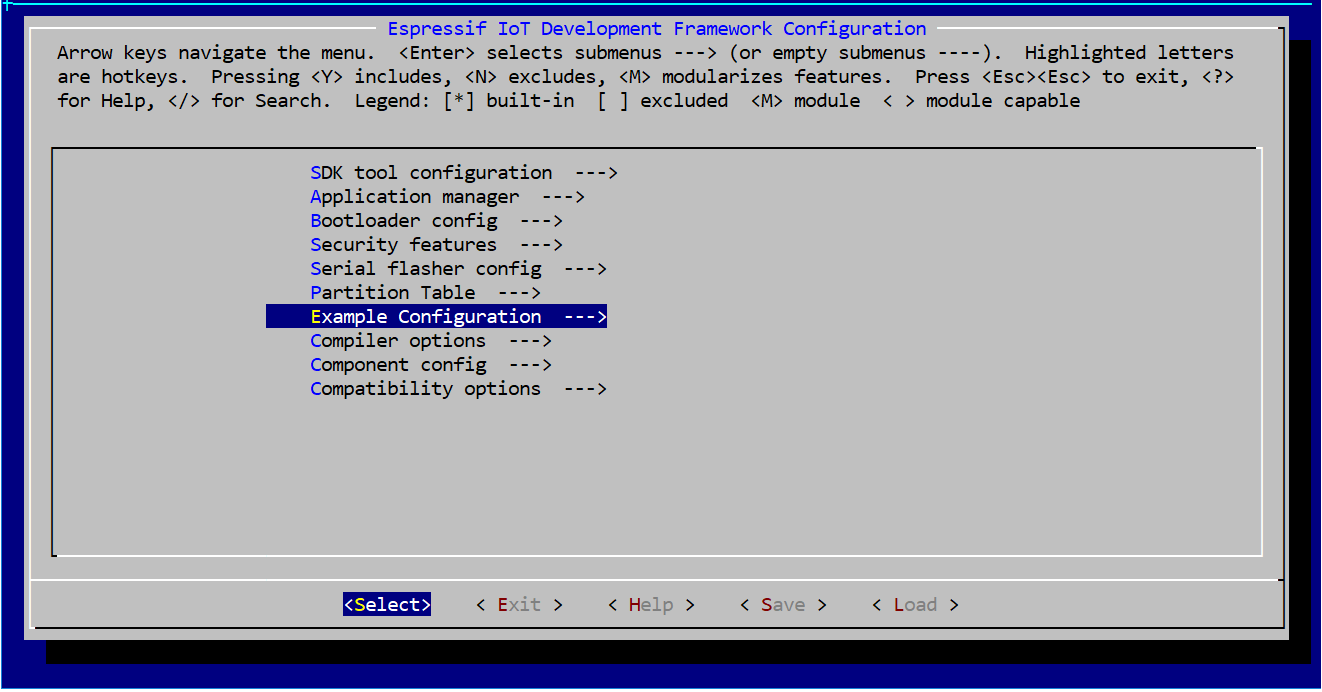
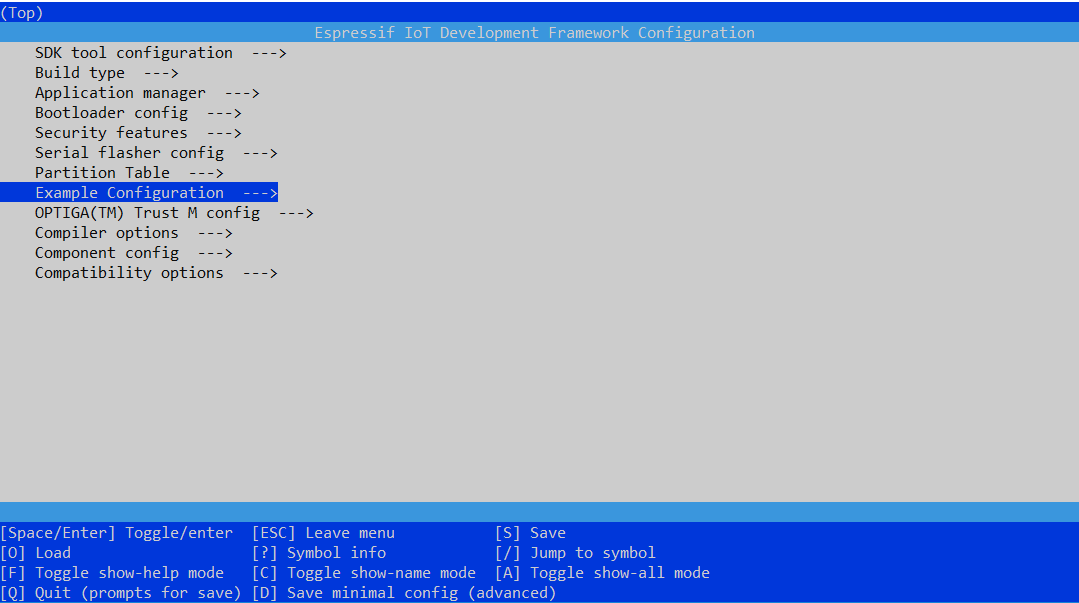
Updated the Cmakeflie for folder structrue changes in optiga trust m package an d pull in the latest update for Trust M

diff --git a/README.md b/README.md
@@ -9,7 +9,7 @@ This repository contains one of Application Notes for OPTIGA™ Trust M security
 - [Prerequisites](#prerequisites)
 - [Getting Started](#getting-started)
 - [Setting up Azure IoT Hub](#setting-up-azure-iot-hub)
-- [Porting guide to enable OPTIGA™ Trust M on your MbedTLS package](#porting-guide-to-enable-optiga-trust-m-on-your-mbedtls-package)
+- [Porting guide to enable OPTIGA™ Trust M on your mbedTLS package](#porting-guide-to-enable-optiga™-trust-m-on-your-mbedtls-package)
 - [Personalize OPTIGA™ Trust M Shield2Go](#personalize-optiga-trust-m-shield2go)
 - [Configuring and Building Sample](#configuring-and-building-sample) 
 - [Troubleshooting](#troubleshooting) 
@@ -18,7 +18,7 @@ This repository contains one of Application Notes for OPTIGA™ Trust M security
 
 <a name="introduction"></a>
 
-The ESP OPTIGA Trust M package is based on Azure IoT C SDK and enable users to connect their ESP32 based devices to the Azure IoT hub using OPTIGA™ Trust M security chip for X.509 based security in Azure IoT hub. It provides some examples which can help to understand most common use cases.
+The ESP Azure OPTIGA™ Trust M package is based on Azure IoT C SDK and enable users to connect their ESP32 based devices to the Azure IoT hub using OPTIGA™ Trust M security chip for X.509 based security in Azure IoT hub. It provides some examples which can help to understand most common use cases.
 
 ## Prerequisites
 
@@ -43,7 +43,6 @@ The ESP OPTIGA Trust M package is based on Azure IoT C SDK and enable users to c
 
 This project is to be used with Espressif's IoT Development Framework, [ESP IDF](https://github.com/espressif/esp-idf). Follow these steps to get started:
 
-- Setup ESP IDF development environment by following the steps [here](https://docs.espressif.com/projects/esp-idf/en/latest/get-started/index.html).
 - Clone the ESP IDF development framework as follows 
 
 Open the Command Prompt, and run the following commands:
@@ -51,15 +50,15 @@ Open the Command Prompt, and run the following commands:
 ``` bash
 git clone -b v4.0 --recursive https://github.com/espressif/esp-idf.git
 ```
-- In addition to Cloning the ESP IDF github, Download and install the ESP-IDF Tools Installer for Windows from below link
+- In addition to cloning the ESP IDF github, Download and install the ESP-IDF Tools Installer for Windows from below link
     
     [ESP-IDF Tools Installer](https://dl.espressif.com/dl/esp-idf-tools-setup-2.3.exe)
 
-- Note : Select ESP-IDF directory extracted in previous step while installing ESP-IDF Tools
+> Note: Select ESP-IDF directory extracted in previous step while installing ESP-IDF Tools
      
-    ![](docs/images/EspInstallation.png)
+![](docs/images/EspInstallation.png)
      
-- After succesful installation of ESP-IDF Tool, ESP-IDF command prompt will be available in the windows start
+- After successful installation of ESP-IDF Tool, the installer creates an “ESP-IDF Command Prompt” shortcut in the Start Menu. This shortcut opens the Command Prompt and sets up all the required environment variables
 
 - In a separate folder, clone the Azure OPTIGA&trade; Trust M project as follows (please note the --recursive option, which is required to clone the various git submodules required by Azure OPTIGA&trade; Trust M)
 
@@ -72,12 +71,12 @@ git clone --recursive Need to be updated
 - Clone the personalize-optiga-trust package as follows
 
 ``` bash
-git clone --recursive https://github.com/Infineon/personalize-optiga-trust
+git clone --recursive https://github.com/Infineon/personalize-optiga-trust.git
 ```
 - Install OpenSSL which is used as an example to generate certificate in this document. OpenSSL can be downloaded from below link
 
     [Openssl EXE](https://slproweb.com/products/Win32OpenSSL.html)
-##
+
 ## Setting up Azure IoT Hub
 
 <a name="setting-up-azure-iot-hub"></a>
@@ -85,16 +84,26 @@ git clone --recursive https://github.com/Infineon/personalize-optiga-trust
 ### Create an IoT Hub using the Azure portal
 
 - Create an account and get an [Azure subscription](https://azure.microsoft.com/en-in/free/?WT.mc_id=A261C142F) if you do not have an Azure subscription already.
-- Create an Azure IoT Hub by following the documentation [here](https://docs.microsoft.com/en-us/azure/iot-hub/iot-hub-create-through-portal).
+- Create an Azure IoT Hub by following the documentation [here](https://docs.microsoft.com/en-us/azure/iot-hub/iot-hub-create-through-portal#create-an-iot-hub).
 
 > **Note: When selecting the "Pricing and scale tier", there is also an option to select , F1: Free tier, which should be sufficient for basic evaluation.**
 
 ### Register and Authenticate X.509 CA certificate to IoT Hub
 
 - Generate X.509 CA certificate using tools such as OpenSSL. To generate CA certificate using OpenSSL, execute the below commands
+    - Generate CA private key
+
     ``` bash
     openssl ecparam -name prime256v1 -genkey -noout –out ca_key_pair.pem
+    ```
+    - Generate Certificate Signing Request
+
+    ``` bash
     openssl req -new -key ca_key_pair.pem -out csr_ca.csr
+    ```
+    - Generate self-signed CA Certificate
+
+    ``` bash
     openssl req -x509 -sha256 -days 365 -key ca_key_pair.pem -in csr_ca.csr -out ca_cert.cer
     ```
     - During execution of second command, You will be prompted to give Distinguished Names(DN). Common Name (CN) is mandatory field in DN details. Give any user-friendly common name for csr generation, other fields can be skipped
@@ -103,12 +112,12 @@ git clone --recursive https://github.com/Infineon/personalize-optiga-trust
 
 ### Register X.509 CA certificate to your IoT Hub through azure portal
 
-- Register a CA certficcate to the IoT Hub created in the above step by following steps 1 to 6 under section **Register X.509 CA certificates to your IoT hub** from the documentation [here](https://docs.microsoft.com/en-us/azure/iot-hub/iot-hub-security-x509-get-started#register-x509-ca-certificates-to-your-iot-hub) and copy the generated  **Verification Code**
+- Register a CA certificate to the IoT Hub created in the above step by following steps 1 to 6 under section **Register X.509 CA certificates to your IoT hub** from the documentation [here](https://docs.microsoft.com/en-us/azure/iot-hub/iot-hub-security-x509-get-started#register-x509-ca-certificates-to-your-iot-hub) and copy the generated  **Verification Code**
     - Using the Verification code from the above step, Create .csr(csr_verification.csr) file to generate verification certificate which is required to verify X.509 CA certificate.
         ```sh
          openssl req -new -key ca_key_pair.pem -out csr_verification.csr
         ```
-        - Note: User can generate new keys or can use same CA keys generated in previous section to generate verification csr file.
+        > Note: User can generate new keys or can use same CA keys generated in previous section to generate verification csr file.
         - when prompted for distinguished names, common name must be provided as **Verification Code** , other fields can be skipped
     - Generate Verification certificate and sign it using X.509 CA certificate  
         ```sh
@@ -119,14 +128,14 @@ git clone --recursive https://github.com/Infineon/personalize-optiga-trust
 
 ### Creating an Azure IoT Device
 
-- Create an Azure IoT Hub by following steps under section **Create an X.509 device for your IoT hub** from the the documentation [here](https://docs.microsoft.com/en-us/azure/iot-hub/iot-hub-security-x509-get-started#create-an-x509-device-for-your-iot-hub).
+- Create an Azure IoT Hub by following steps under section **Create an X.509 device for your IoT hub** from the documentation [here](https://docs.microsoft.com/en-us/azure/iot-hub/iot-hub-security-x509-get-started#create-an-x509-device-for-your-iot-hub).
 - Note down newly created IoT Device **Device ID** 
 
-## Porting guide to enable OPTIGA™ Trust M on your MbedTLS package
+## Porting guide to enable OPTIGA™ Trust M on your mbedTLS package
 
-<a name="porting-guide-to-enable-optiga-trust-m-on-your-mbedtls-package"></a>
+<a name="porting-guide-to-enable-optiga™-trust-m-on-your-mbedtls-package"></a>
 
-- If you want to port Trust M onto any board where MbedTLS is used for crypto operation, you can follow the steps in documentation [here](https://github.com/Infineon/azure-optiga-trust-m/tree/master/docs).
+- If you want to port Trust M onto any board where mbedTLS is used for crypto operation, you can follow the steps in documentation [here](https://github.com/Infineon/azure-optiga-trust-m/tree/master/docs).
 
 ## Personalize OPTIGA™ Trust M Shield2Go
 
@@ -223,26 +232,17 @@ git clone --recursive https://github.com/Infineon/personalize-optiga-trust
     ![](docs/images/Esp32_connection_with_Shield2Go.jpg)
 
 - Follow this step only if Server root CA is loaded into any of OPTIGA data object 
-    - Enable macro "LOAD_TA_FROM_OPTIGA" in "esp-azure\examples\iothub_client_sample_mqtt\main\ iothub_client_sample_mqtt.c" file and define trust_anchor as optiga data object which is loaded with server root CA as below
+    - Enable macro "LOAD_TA_FROM_OPTIGA" in <azure-optiga-trust-m\examples\iothub_client_sample_mqtt\main\iothub_client_sample_mqtt.c> file by setting value as "1"
          ```sh
-        /* Enable LOAD_TA_FROM_OPTIGA if server root certificate is loaded in otpiga */
+        /* Enable LOAD_TA_FROM_OPTIGA if server root certificate is loaded in optiga */
         #define LOAD_TA_FROM_OPTIGA 0    // 1 = Enable, 0 = Disable
-        
-        #if LOAD_TA_FROM_OPTIGA
-        //Read trust anchor from OPTIGA
-        #define trust_anchor 0xE0E8
-        static char trust_anchor_pem [1300] = {0};
-        static uint16_t trust_anchor_pem_length = sizeof(trust_anchor_pem);
-        #endif
         ```
     - To enable server validation using OPTIGA, region specific server root CA certificate must be loaded in any of OPTIGA data object either by personalization or by writing to object using OPTIGA write API
     - To load trust anchor using OPTIGA write API, modify file <azure-optiga-trust-m\components\optiga\optiga\optiga_trust.c> as below
-        - Define OPTIGA_TA with optiga data object where server root CA requires to be loaded and define trust_anchor with region specific root CA in API "write_optiga_trust_anchor(void)"
-        - Note: user can either choose from available certificate or can provide specific certificate 
+        - User can choose the root CA as either from the below available certificate or can provide specific certificate by setting value as "1". E.g.:  #if 1
             ```sh
             static void write_optiga_trust_anchor(void)
             {
-            #define OPTIGA_TA 0xE0E8 
             #if 0
             	/* DigiCert Baltimore Root --Used Globally--*/
             	// This cert should be used when connecting to Azure IoT on the Azure Cloud available globally. 
@@ -289,7 +289,7 @@ git clone --recursive https://github.com/Infineon/personalize-optiga-trust
       	   //The below specified functions can be used to personalize OPTIGA w.r.t
 	        //certificates, Trust Anchors, etc.
 		
-            //write_device_certificate ();s
+            //write_device_certificate ();
             //write_set_high_performance();  //setting current limitation to 15mA
             //write_platform_binding_secret ();  
             //read_certificate ();
@@ -324,29 +324,37 @@ git clone --recursive https://github.com/Infineon/personalize-optiga-trust
     C:\Users\username\Desktop\esp-idf>
     ```
 - Change working directory to <azure-optiga-trust-m\examples\iothub_client_sample_mqtt>
-- Configure "example configuration" using below command
+- Configure "Example Configuration" and "OPTIGA(TM) Trust M config" using below command
 
     ```sh
     idf.py menuconfig
     ```
     ![](docs/images/menu_config_1.png)
 
-    - Select Example Configuration and update WiFi SSID, WiFi Password and IoT Hub device connection string 
-    
-        ![](docs/images/menu_config_2.png)
-    
-    - To get IoT Hub Device Connection String: 
-        - navigate to your IoT Hub, and then select Setting > shared Access policies > iothubowner
-        - Under shared access keys, copy connection string – primary key Ex: "HostName=**your_IoT_hub_name.azure-devices.net**;SharedAccessKeyName=iothubowner;SharedAccessKey=id9ublohj/CdVFb5jLS/9bF3hAfqE2TRpb4woDhlciM="
-        - Update Host name and device id name from the above step in the below connection string
-        ```bash 
-        "HostName=**your_IoT_hub_name.azure-devices.net**;DeviceId=[Device ID];x509=true"
-        ```
-        - Update the above connection string as IoT Hub Device Connection String in the Example Configuration
+- Select Example Configuration and update WiFi SSID, WiFi Password and IoT Hub device connection string 
 
+    ![](docs/images/menu_config_2.png)
+
+- To get IoT Hub Device Connection String: 
+    - navigate to your IoT Hub, and then select Setting > shared Access policies > iothubowner
+    - Under shared access keys, copy connection string – primary key E.g.: "HostName=**your_IoT_hub_name.azure-devices.net**;SharedAccessKeyName=iothubowner;SharedAccessKey=id9ublohj/CdVFb5jLS/9bF3hAfqE2TRpb4woDhlciM="
+    - Update Host name and device id name from the above step in the below connection string
+    ```bash 
+    "HostName=**your_IoT_hub_name.azure-devices.net**;DeviceId=[Device ID];x509=true"
+    ```
+    - Update the above connection string as IoT Hub Device Connection String in the Example Configuration and save the configuration
+- Go back to the main page of menuconfig and select "OPTIGA(TM) Trust M config" option and update the below parameters:
+
+    ![](docs/images/menu_config_3.png)
+    
+    - Select the certificate Slot out of 4 slots provided, where the device certificate is personalized
+    - Select the Private Key slot out of 4 slots provided, where the device private key is personalized
+    - Select the Trust Anchor slot out of 3 slots provided, where the Azure trust anchor is personalized 
+
+    ![](docs/images/menu_config_4.png)
 
 - Build Sample project and Flash ESP32 using below command 
-    ```bash
+    ```bash	
     idf.py build
     idf.py -p <ESP32 serial port> flash
         E.g.: idf.py -p com7 flash
@@ -357,7 +365,7 @@ git clone --recursive https://github.com/Infineon/personalize-optiga-trust
     E.g. : idf.py -B c:\esp-build build
          : idf.py -B c:\esp-build -p com7 flash
     ```
-- During Sample project, if you get an error as **ccache error : Failed to create temprorary file** then this is due to file path length restriction to 260 characters.To avoid this error, clone the Azure OPTIGA Trust M to the top level directory such as in C or D drive or use custom build folder as the top level directory as mentioned in above step
+> Note: During Sample project build, if you get an error as **ccache error : Failed to create temprorary file** then this is due to file path length restriction to 260 characters. To avoid this error, clone the Azure OPTIGA Trust M to the top level directory such as in C or D drive or use custom build folder as the top level directory as mentioned in above step
 - Once sample project is flashed successfully, you can monitor communication between ESP32 and your azure IoT Hub device using
     ```sh
     idf.py monitor
@@ -383,11 +391,10 @@ git clone --recursive https://github.com/Infineon/personalize-optiga-trust
 1. Some common problems can be fixed by disabling the firewall.
 
 2. You can try with the followings, if your build fails:
-	- `$ git submodule update --init --recursive`
+	- `git submodule update --init --recursive`
 	- Check the compiler version and verify that it is the correct one for your ESP IDF version.
 	- Check if the IDF_PATH is set correctly
-	- Clean the project with `make clean` and if required, using `rm -rf build sdkconfig sdkconfig.old`
-	
+	- Clean the project with “idf.py fullclean”	
 3. Ensure that the device connection string received from Azure IoT Hub are correct.
 
 ## Contributing
@@ -395,3 +402,4 @@ Please read [CONTRIBUTING.md](https://github.com/Infineon/arduino-optiga-trust-x
 
 ## License
 This project is licensed under the MIT License - see the [LICENSE](LICENSE) file for details
+
